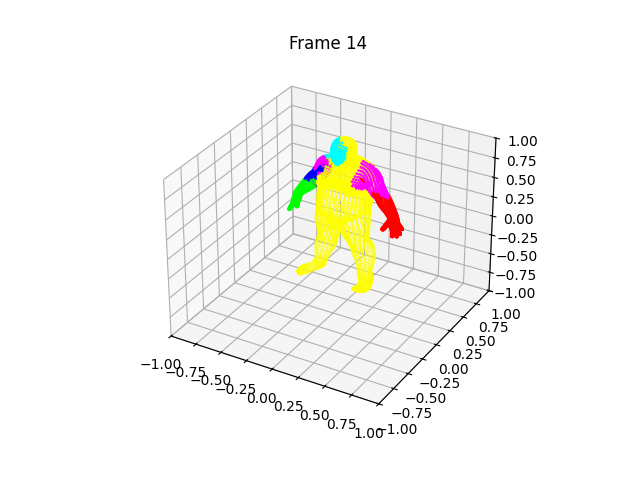
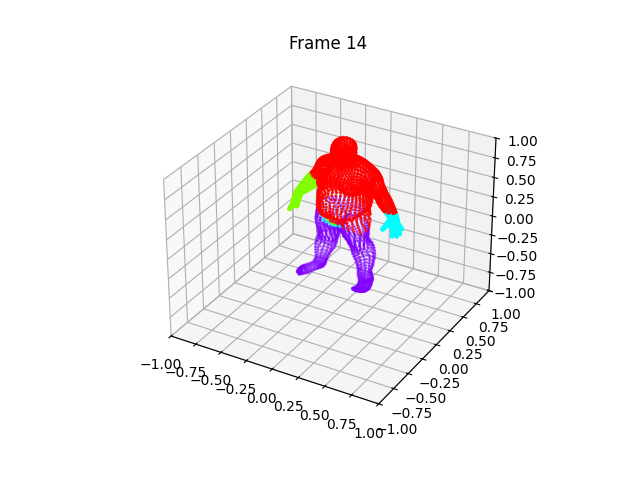
クラスタに対応するサンプル点を描画するようにした。toool_kai.pyにてinlierのみでの剛体変換と評価を行う

Changed region(s): [[0.4375, 0.2812, 0.6562, 0.625]]

diff --git a/tool_kai.py b/tool_kai.py
@@ -1,3 +1,8 @@
+##########################################################################
+## tool.pyでは、inlierに対して再度剛体変換を求めて評価を行っていなかった。
+## その部分を修正する。
+##########################################################################
+
 import numpy as np
 from numpy.linalg import svd, matrix_rank
 import open3d as o3d
